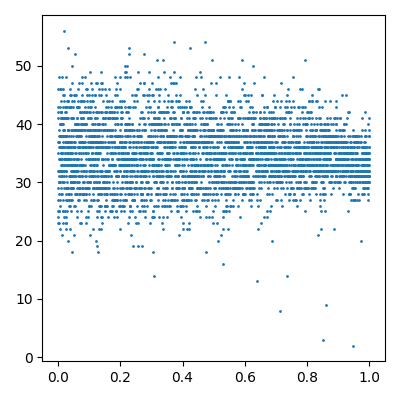
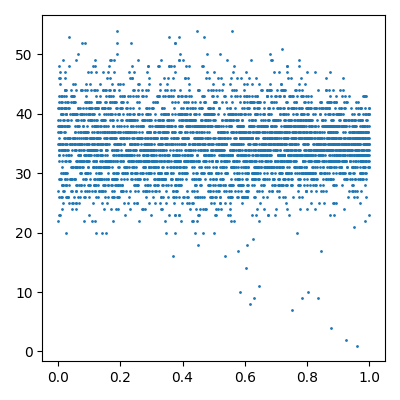
with single-sided single-cell fr

diff --git a/paper_figures_21_05_05/paper_figs_circa_21_10/multiple_parametric_21_09_28/synfire_growth_with_ie_plasticity_21_11_04/run.py b/paper_figures_21_05_05/paper_figs_circa_21_10/multiple_parametric_21_09_28/synfire_growth_with_ie_plasticity_21_11_04/run.py
@@ -104,7 +104,7 @@ M = Generic(
 
     # Synaptic plasticity params
     TAU_STDP_PAIR_EE=30e-3,
-    TAU_STDP_PAIR_EI=3e-3,
+    TAU_STDP_PAIR_EI=2e-3,
 
     SINGLE_CELL_FR_SETPOINT_MIN=6,
     SINGLE_CELL_FR_SETPOINT_MIN_STD=2,
@@ -130,7 +130,7 @@ kernel_base_ei = np.arange(2 * M.CUT_IDX_TAU_PAIR_EI + 1) - M.CUT_IDX_TAU_PAIR_E
 M.KERNEL_PAIR_EI = np.exp(-1 * np.abs(kernel_base_ei) * S.DT / M.TAU_STDP_PAIR_EI).astype(float)
 M.KERNEL_PAIR_EI[M.KERNEL_PAIR_EI >= 1] = 0
 M.KERNEL_PAIR_EI[M.CUT_IDX_TAU_PAIR_EI:] *= -1
-M.KERNEL_PAIR_EI[:M.CUT_IDX_TAU_PAIR_EI] = 0
+# M.KERNEL_PAIR_EI[:M.CUT_IDX_TAU_PAIR_EI] = 0
 
 M.DROPOUT_MAX_IDX = M.N_EXC + M.N_SILENT
 
@@ -437,9 +437,9 @@ def run_test(m, output_dir_name, show_connectivity=True, repeats=1, n_show_only=
                         curr_spks_e = filtered_spks_for_e_cells[i_t, :]
 
                         ## find I spikes for stdp
-                        # stdp_start_ei = i_t - m.CUT_IDX_TAU_PAIR_EI if i_t - m.CUT_IDX_TAU_PAIR_EI > 0 else 0
-                        # stdp_end_ei = i_t + m.CUT_IDX_TAU_PAIR_EI if i_t + m.CUT_IDX_TAU_PAIR_EI < spks_for_e_cells.shape[0] else (spks_for_e_cells.shape[0] - 1)
-                        # stdp_spk_hist_i = spks_for_i_cells[stdp_start_ei:stdp_end_ei, :]
+                        stdp_start_ei = i_t - m.CUT_IDX_TAU_PAIR_EI if i_t - m.CUT_IDX_TAU_PAIR_EI > 0 else 0
+                        stdp_end_ei = i_t + m.CUT_IDX_TAU_PAIR_EI if i_t + m.CUT_IDX_TAU_PAIR_EI < spks_for_e_cells.shape[0] else (spks_for_e_cells.shape[0] - 1)
+                        stdp_spk_hist_i = spks_for_i_cells[stdp_start_ei:stdp_end_ei, :]
 
                         sparse_curr_spks_e = csc_matrix(curr_spks_e)
                         if t_points_for_stdp_ee > 0:
@@ -450,10 +450,10 @@ def run_test(m, output_dir_name, show_connectivity=True, repeats=1, n_show_only=
                             stdp_burst_pair += stdp_burst_pair_for_t_step
                             stdp_burst_pair -= stdp_burst_pair_for_t_step.T
 
-                        # sparse_spks_i = csc_matrix(np.flip(stdp_spk_hist_i, axis=0))
-                        # trimmed_kernel_ei = m.KERNEL_PAIR_EI[M.CUT_IDX_TAU_PAIR_EI - (i_t - stdp_start_ei):M.CUT_IDX_TAU_PAIR_EI + (stdp_end_ei - i_t)]
-                        # stdp_burst_pair_for_t_step_i = kron(sparse_curr_spks_e, sparse_spks_i).T.dot(trimmed_kernel_ei).reshape(spks_for_e_cells.shape[1], spks_for_i_cells.shape[1])
-                        # stdp_burst_pair_e_i += stdp_burst_pair_for_t_step_i
+                        sparse_spks_i = csc_matrix(np.flip(stdp_spk_hist_i, axis=0))
+                        trimmed_kernel_ei = m.KERNEL_PAIR_EI[M.CUT_IDX_TAU_PAIR_EI - (i_t - stdp_start_ei):M.CUT_IDX_TAU_PAIR_EI + (stdp_end_ei - i_t)]
+                        stdp_burst_pair_for_t_step_i = kron(sparse_curr_spks_e, sparse_spks_i).T.dot(trimmed_kernel_ei).reshape(spks_for_e_cells.shape[1], spks_for_i_cells.shape[1])
+                        stdp_burst_pair_e_i += stdp_burst_pair_for_t_step_i
 
                     # E SINGLE-CELL FIRING RATE RULE
                     fr_update_e = 0
@@ -468,7 +468,7 @@ def run_test(m, output_dir_name, show_connectivity=True, repeats=1, n_show_only=
 
                     fr_pop_step_mean = m.GAMMA * (-1 + np.exp(fr_pop_update / 60)) / (1 + np.exp(fr_pop_update / 60))
                     print('pop_percent_change:', fr_pop_step_mean * m.ETA)
-                    fr_pop_step = gaussian((m.N_EXC, m.N_EXC), fr_pop_step_mean, np.abs(fr_pop_step_mean))
+                    fr_pop_step = gaussian((m.N_EXC, m.N_EXC), fr_pop_step_mean, 0)
 
                     # I SINGLE-CELL FIRING RATE RULE
                     # fr_update_i = 0
@@ -498,18 +498,18 @@ def run_test(m, output_dir_name, show_connectivity=True, repeats=1, n_show_only=
                     w_r_copy['E'][:(m.N_EXC + m.N_SILENT), :(m.N_EXC + m.N_SILENT)][(w_r_copy['E'][:(m.N_EXC + m.N_SILENT), :(m.N_EXC + m.N_SILENT)] < m.W_E_E_R_MIN) & (w_r['E'][:(m.N_EXC + m.N_SILENT), :(m.N_EXC + m.N_SILENT)] > 0)] = m.W_E_E_R_MIN
 
                     # output weight bound
-                    cell_outgoing_weight_totals = w_r_copy['E'][:(m.N_EXC + m.N_SILENT), :(m.N_EXC + m.N_SILENT)].sum(axis=0)
-                    rescaling = np.where(cell_outgoing_weight_totals > m.CELL_OUTPUT_MAX, m.CELL_OUTPUT_MAX / cell_outgoing_weight_totals, 1.)
-                    w_r_copy['E'][:(m.N_EXC + m.N_SILENT), :(m.N_EXC + m.N_SILENT)] *= rescaling.reshape(1, rescaling.shape[0])
+                    # cell_outgoing_weight_totals = w_r_copy['E'][:(m.N_EXC + m.N_SILENT), :(m.N_EXC + m.N_SILENT)].sum(axis=0)
+                    # rescaling = np.where(cell_outgoing_weight_totals > m.CELL_OUTPUT_MAX, m.CELL_OUTPUT_MAX / cell_outgoing_weight_totals, 1.)
+                    # w_r_copy['E'][:(m.N_EXC + m.N_SILENT), :(m.N_EXC + m.N_SILENT)] *= rescaling.reshape(1, rescaling.shape[0])
 
                     w_e_e_hard_bound = m.W_E_E_R_MAX / m.PROJECTION_NUM
                     w_r_copy['E'][:(m.N_EXC + m.N_SILENT), :(m.N_EXC + m.N_SILENT)][w_r_copy['E'][:(m.N_EXC + m.N_SILENT), :(m.N_EXC + m.N_SILENT)] > w_e_e_hard_bound] = w_e_e_hard_bound 
 
 
                     # print('ei_mean_stdp', np.mean(m.ETA * m.BETA * stdp_burst_pair_e_i))
-                    # w_r_copy['I'][:(m.N_EXC + m.N_SILENT), (m.N_EXC + m.N_SILENT):] += 1e-3 * m.ETA * m.BETA * stdp_burst_pair_e_i
-                    # w_r_copy['I'][w_r_copy['I'] < 0] = 0
-                    # w_r_copy['I'][w_r_copy['I'] > m.W_I_E_R_MAX] = m.W_I_E_R_MAX
+                    w_r_copy['I'][:(m.N_EXC + m.N_SILENT), (m.N_EXC + m.N_SILENT):] += 1e-3 * m.ETA * m.BETA * stdp_burst_pair_e_i
+                    w_r_copy['I'][w_r_copy['I'] < 0] = 0
+                    w_r_copy['I'][w_r_copy['I'] > m.W_I_E_R_MAX] = m.W_I_E_R_MAX
 
                     if i_e % 10 == 0:
                         if i_e < m.DROPOUT_ITER:

diff --git a/paper_figures_21_05_05/paper_figs_circa_21_10/multiple_parametric_21_09_28/single_cell_silent_dist_ordered_21_10_21/run.py b/paper_figures_21_05_05/paper_figs_circa_21_10/multiple_parametric_21_09_28/single_cell_silent_dist_ordered_21_10_21/run.py
@@ -65,12 +65,12 @@ M = Generic(
     N_EXC=4000,
     N_SILENT=0,
     N_INH=450,
-    M=20,
+    M=25,
     
     # Input params
     DRIVING_HZ=2, # 2 Hz lambda Poisson input to system
-    N_DRIVING_CELLS=20,
-    PROJECTION_NUM=20,
+    N_DRIVING_CELLS=25,
+    PROJECTION_NUM=25,
     INPUT_STD=1e-3,
     BURST_T=1.5e-3,
     INPUT_DELAY=50e-3,
@@ -88,7 +88,7 @@ M = Generic(
     I_E_CON_PROB=0.6,
 
     # Weights
-    W_E_I_R=1.5e-5,
+    W_E_I_R=1.2e-5,
     W_E_I_R_MAX=10e-5,
     W_I_E_R=0.32e-5,
     W_A=0,
@@ -108,7 +108,7 @@ M = Generic(
     TAU_STDP_PAIR=30e-3,
     SINGLE_CELL_FR_SETPOINT_MIN=6,
     SINGLE_CELL_FR_SETPOINT_MIN_STD=2,
-    SINGLE_CELL_LINE_ATTR=bool(args.fr_single_line_attr[0]),
+    SINGLE_CELL_LINE_ATTR=args.fr_single_line_attr[0],
     ETA=0.3,
     ALPHA_1=args.alpha_1[0], #3e-2
     ALPHA_2=args.alpha_2[0],
@@ -121,7 +121,7 @@ np.random.seed(S.RNG_SEED)
 
 M.CON_PROBS_FF = np.exp(-1 * np.arange(M.N_EXC / M.PROJECTION_NUM) / M.CON_PROB_FF_CONST)
 
-M.W_U_E = M.W_E_E_R / M.PROJECTION_NUM * 1.55
+M.W_U_E = M.W_E_E_R / M.PROJECTION_NUM * 1.95
 
 M.CUT_IDX_TAU_PAIR = int(2 * M.TAU_STDP_PAIR / S.DT)
 M.KERNEL_PAIR = np.exp(-np.arange(M.CUT_IDX_TAU_PAIR) * S.DT / M.TAU_STDP_PAIR).astype(float)
@@ -564,17 +564,19 @@ def run_test(m, output_dir_name, show_connectivity=True, repeats=1, n_show_only=
                             e_cell_fr_setpoints += np.sum(spks_for_e_cells > 0, axis=0)
                     elif i_e == m.E_SINGLE_FR_TRIALS[1]:
                         e_cell_fr_setpoints = e_cell_fr_setpoints / (m.E_SINGLE_FR_TRIALS[1] - m.E_SINGLE_FR_TRIALS[0])
-                        # where_fr_is_0 = (e_cell_fr_setpoints == 0)
-                        # if m.SINGLE_CELL_LINE_ATTR:
-                        #     e_cell_fr_setpoints[where_fr_is_0] = np.random.normal   (
-                        #         loc=m.SINGLE_CELL_FR_SETPOINT_MIN,
-                        #         scale=m.SINGLE_CELL_FR_SETPOINT_MIN_STD,
-                        #         size=e_cell_fr_setpoints[where_fr_is_0].shape[0]
-                        #     )
+                        where_fr_is_0 = (e_cell_fr_setpoints == 0)
+                        if m.SINGLE_CELL_LINE_ATTR == 2:
+                            e_cell_fr_setpoints[where_fr_is_0] = np.random.normal   (
+                                loc=m.SINGLE_CELL_FR_SETPOINT_MIN,
+                                scale=m.SINGLE_CELL_FR_SETPOINT_MIN_STD,
+                                size=e_cell_fr_setpoints[where_fr_is_0].shape[0]
+                            )
                     elif i_e > m.E_SINGLE_FR_TRIALS[1]:
                         e_diffs = e_cell_fr_setpoints - np.sum(spks_for_e_cells > 0, axis=0)
-                        if m.SINGLE_CELL_LINE_ATTR:
+                        if m.SINGLE_CELL_LINE_ATTR == 1:
                             e_diffs[(e_diffs <= 2) & (e_diffs >= -2)] = 0
+                        elif m.SINGLE_CELL_LINE_ATTR == 2:
+                            e_diffs[e_diffs > 0] = 0
                         fr_update_e = e_diffs.reshape(e_diffs.shape[0], 1) * np.ones((m.N_EXC + m.N_SILENT, m.N_EXC + m.N_SILENT)).astype(float)
 
 

diff --git a/paper_figures_21_05_05/paper_figs_circa_21_10/multiple_parametric_21_09_28/single_cell_silent_dist_ordered_21_10_21/submit_single_silent_only.py b/paper_figures_21_05_05/paper_figs_circa_21_10/multiple_parametric_21_09_28/single_cell_silent_dist_ordered_21_10_21/submit_single_silent_only.py
@@ -78,7 +78,8 @@ params = OrderedDict()
 params['SEED'] = [str(i) for i in range(2031, 2051)]
 params['ALPHA_1'] = [ str(3e-2) ]
 params['ALPHA_2'] = [ str(0.5e-2) ]
-params['SYN_PROP_DIST'] = [ str(0.9), str(1.1) ]
+params['SYN_PROP_DIST'] = [ str(1.0) ]
+params['DROP_SEV'] = [str(0.35), str(0.5)]
 
 # for key in params.keys():
 # 	if key == 'SEED':
@@ -105,7 +106,7 @@ for src_name in scripts:
 						continue
 
 					augmented_params = {
-						'DROP_SEV': str(drop_sev),
+						# 'DROP_SEV': str(drop_sev),
 					}
 
 					for param_idx, v in enumerate(params.keys()):

diff --git a/paper_figures_21_05_05/paper_figs_circa_21_10/multiple_parametric_21_09_28/single_cell_silent_dist_ordered_21_10_21/submit_single_silent_only_wide_attr.py b/paper_figures_21_05_05/paper_figs_circa_21_10/multiple_parametric_21_09_28/single_cell_silent_dist_ordered_21_10_21/submit_single_silent_only_wide_attr.py
@@ -78,7 +78,8 @@ params = OrderedDict()
 params['SEED'] = [str(i) for i in range(2031, 2051)]
 params['ALPHA_1'] = [ str(3e-2) ]
 params['ALPHA_2'] = [ str(0.5e-2) ]
-params['SYN_PROP_DIST'] = [ str(0.9), str(1.1) ]
+params['SYN_PROP_DIST'] = [ str(1.0) ]
+params['DROP_SEV'] = [str(0.35), str(0.5)]
 
 # for key in params.keys():
 # 	if key == 'SEED':
@@ -105,7 +106,7 @@ for src_name in scripts:
 						continue
 
 					augmented_params = {
-						'DROP_SEV': str(drop_sev),
+						# 'DROP_SEV': str(drop_sev),
 					}
 
 					for param_idx, v in enumerate(params.keys()):

diff --git a/paper_figures_21_05_05/paper_figs_circa_21_10/multiple_parametric_21_09_28/single_cell_silent_dist_ordered_21_10_21/submit_pop_single_silent_one_sided.py b/paper_figures_21_05_05/paper_figs_circa_21_10/multiple_parametric_21_09_28/single_cell_silent_dist_ordered_21_10_21/submit_pop_single_silent_one_sided.py
@@ -4,7 +4,7 @@ import functools
 
 base_path = os.curdir
 scripts = [
-	'submit_pop_single_silent.slurm',
+	'submit_pop_single_silent_one_sided.slurm',
 ]
 drop_sev = 0.5
 
